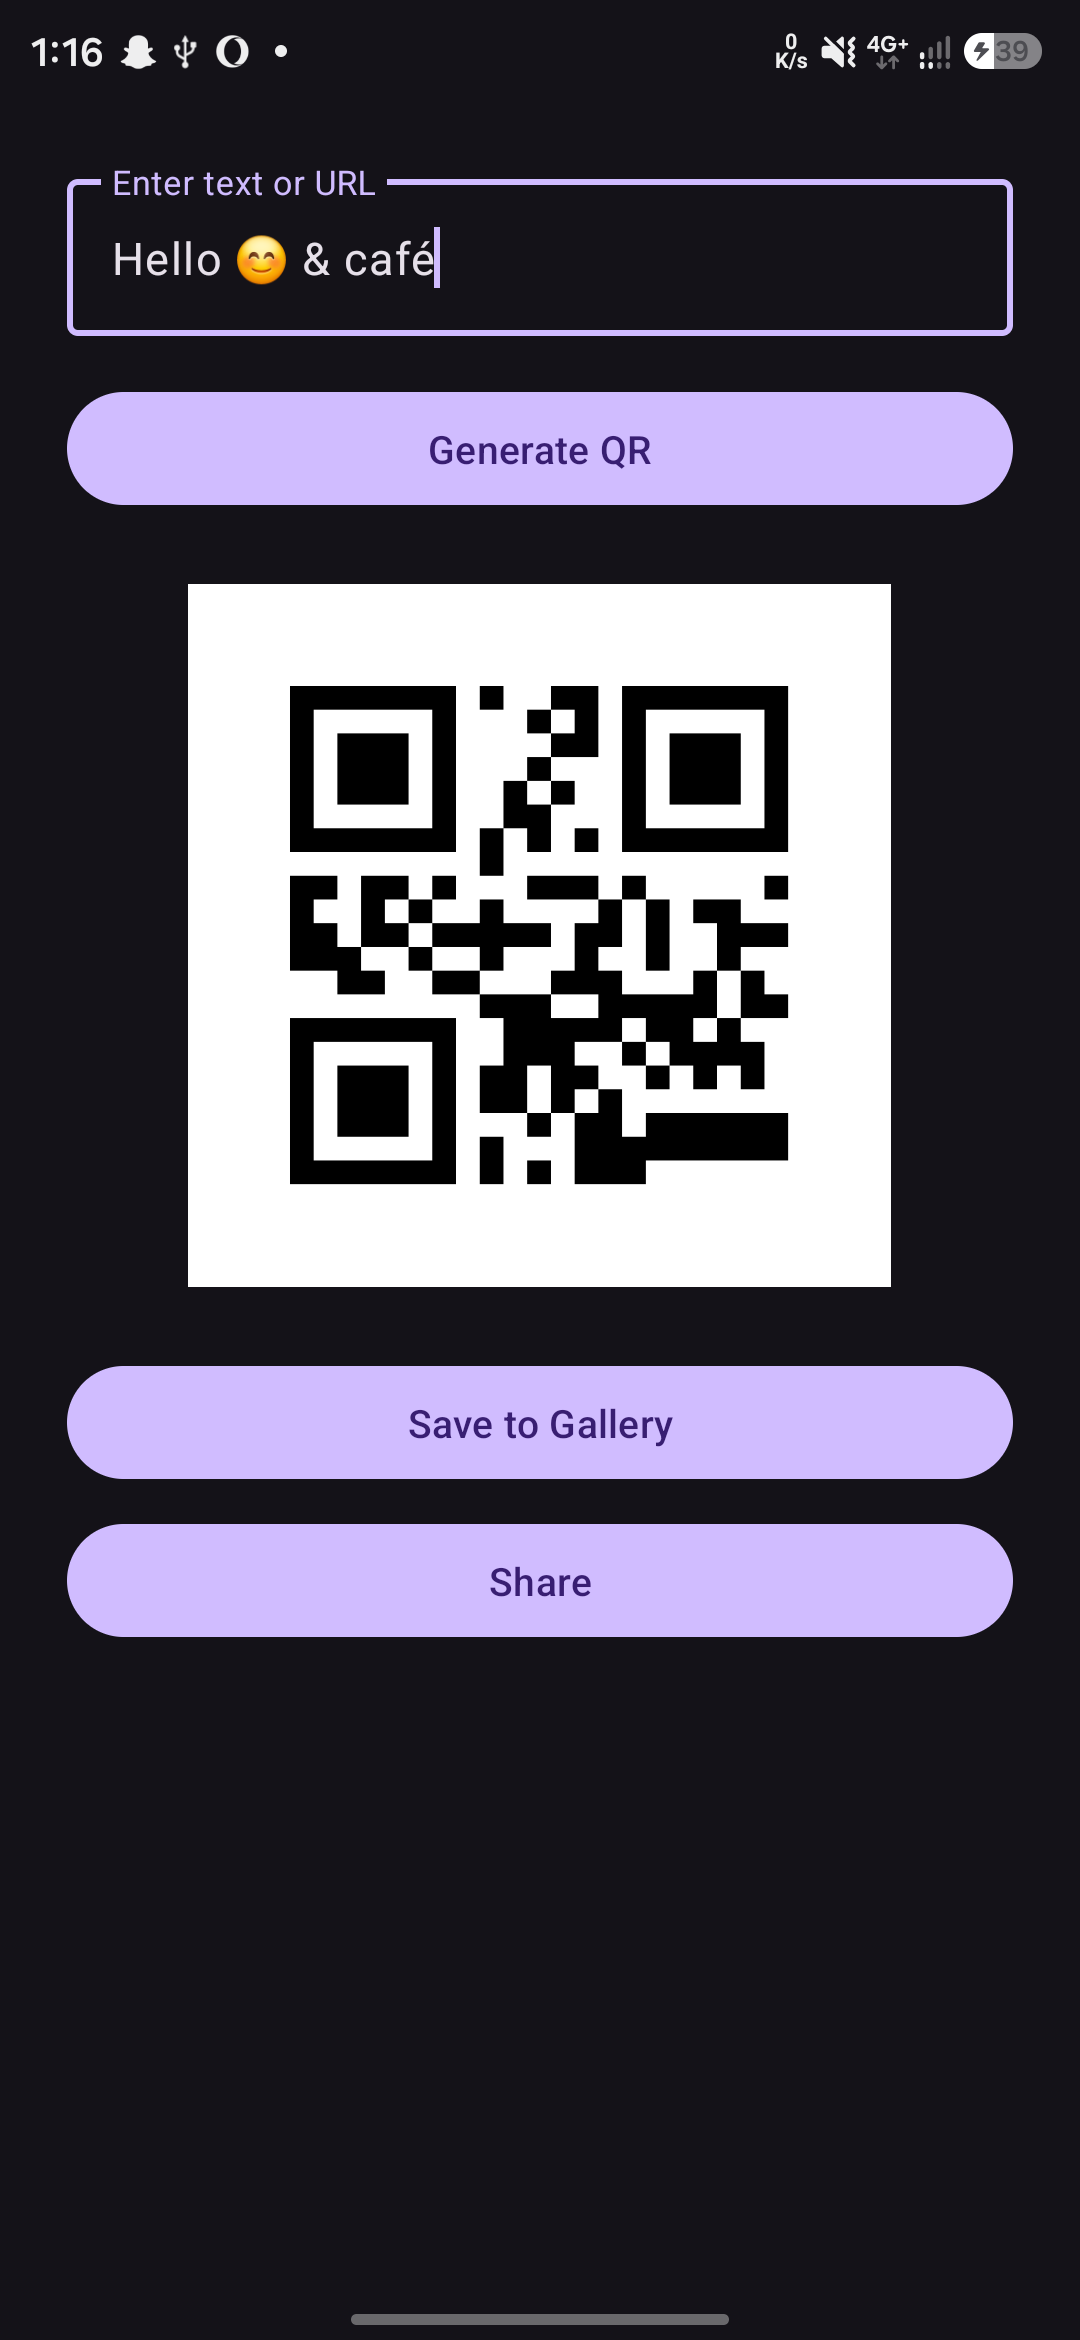
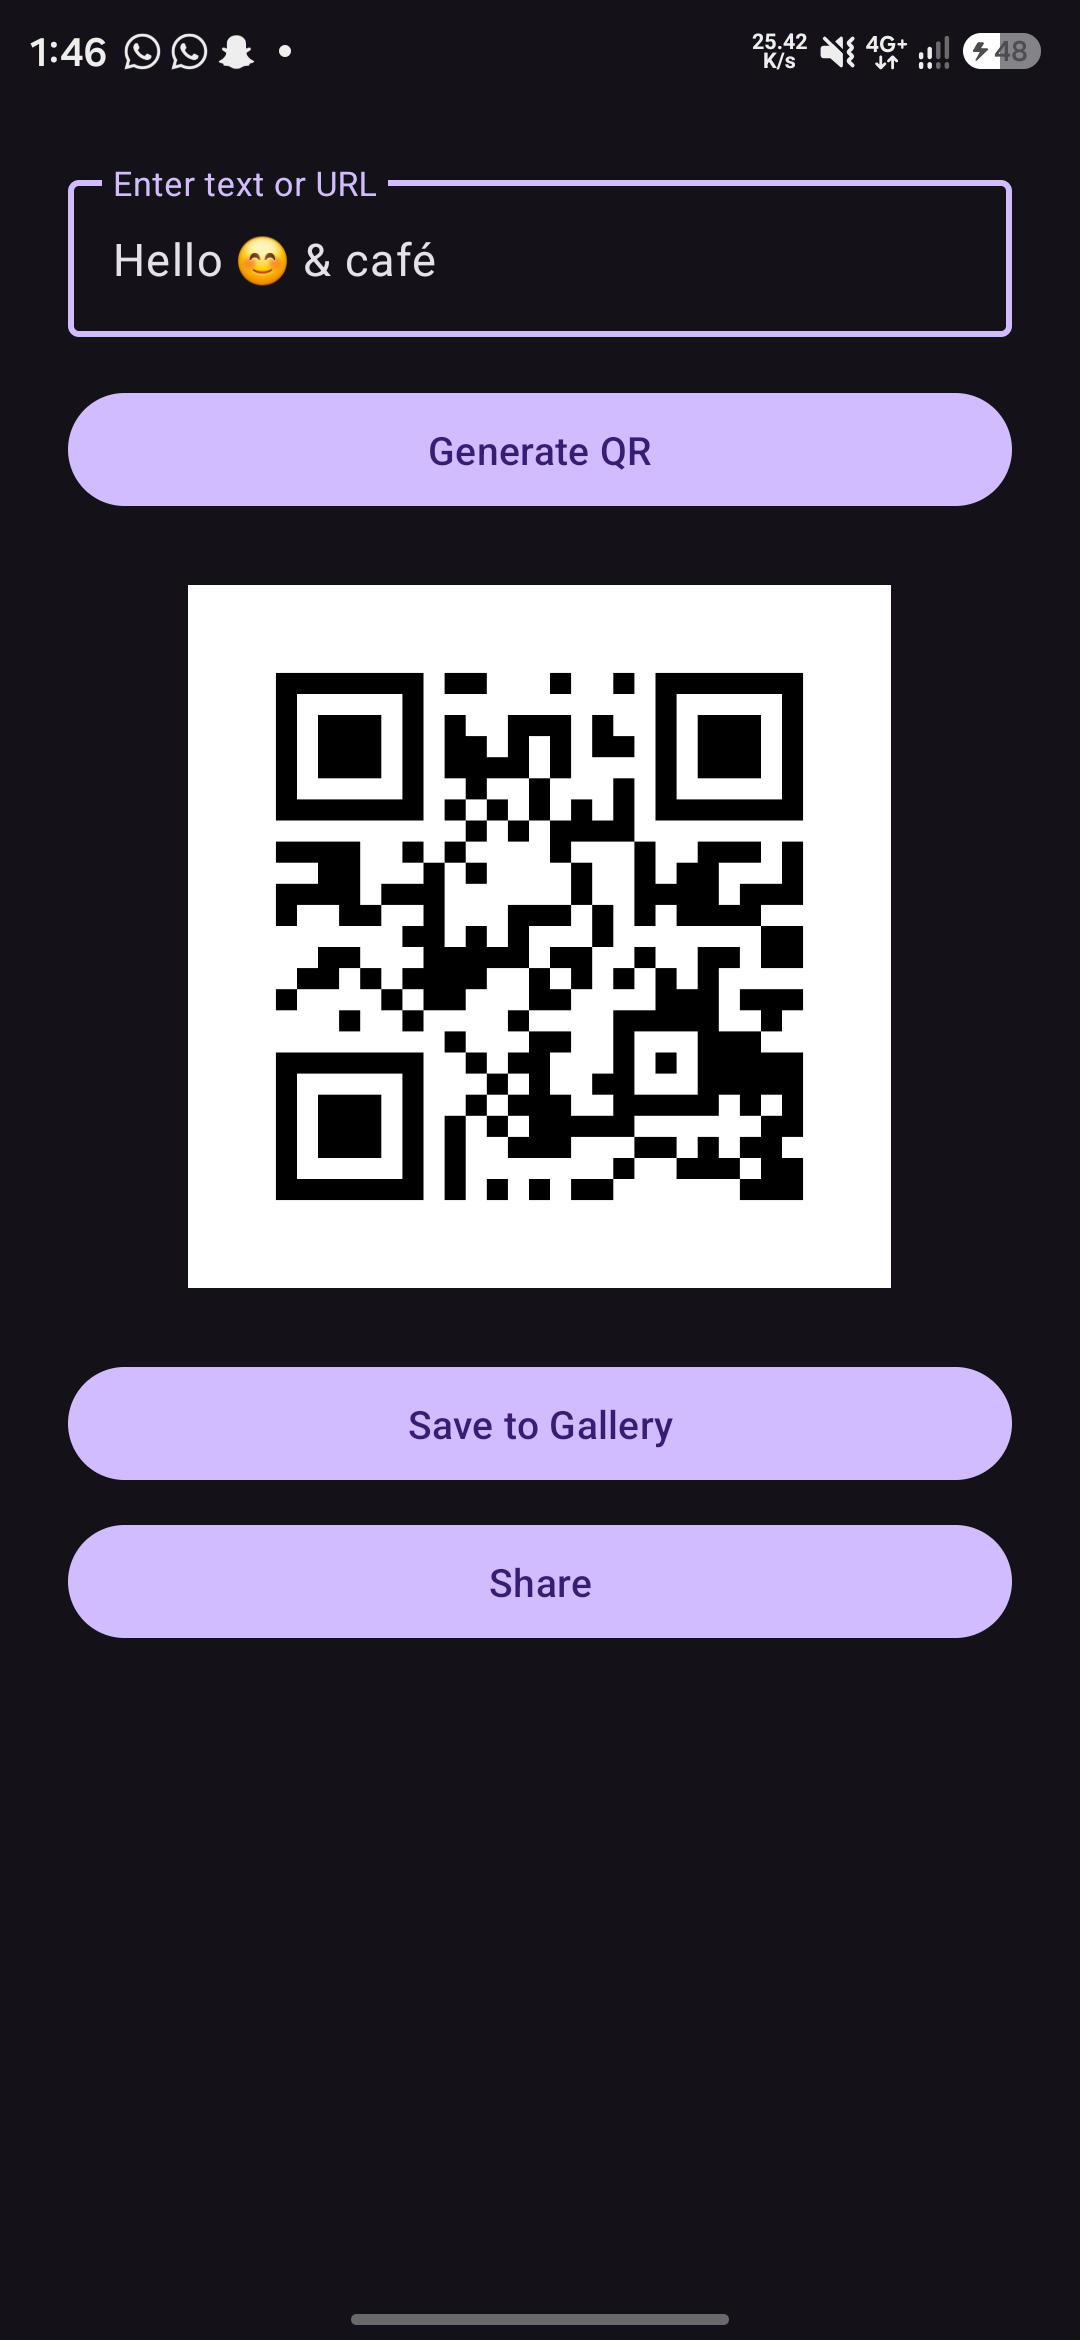
Step 8: fix emoji and UTF-8 support

diff --git a/app/src/main/java/com/group4/qrcodegenerator/MainActivity.kt b/app/src/main/java/com/group4/qrcodegenerator/MainActivity.kt
@@ -17,7 +17,7 @@ import android.content.Intent
 import androidx.core.content.FileProvider
 import java.io.File
 import java.io.FileOutputStream
-
+import com.google.zxing.EncodeHintType
 class MainActivity : AppCompatActivity() {
 
     private lateinit var binding: ActivityMainBinding
@@ -65,7 +65,8 @@ class MainActivity : AppCompatActivity() {
 
     private fun showQr(text: String) {
         try {
-            qrBitmap = BarcodeEncoder().encodeBitmap(text, BarcodeFormat.QR_CODE, 800, 800)
+            val hints = mapOf(EncodeHintType.CHARACTER_SET to "UTF-8")
+            qrBitmap = BarcodeEncoder().encodeBitmap(text, BarcodeFormat.QR_CODE, 800, 800, hints)
             qrText = text
             binding.ivQrCode.setImageBitmap(qrBitmap)
             binding.ivQrCode.visibility = View.VISIBLE
